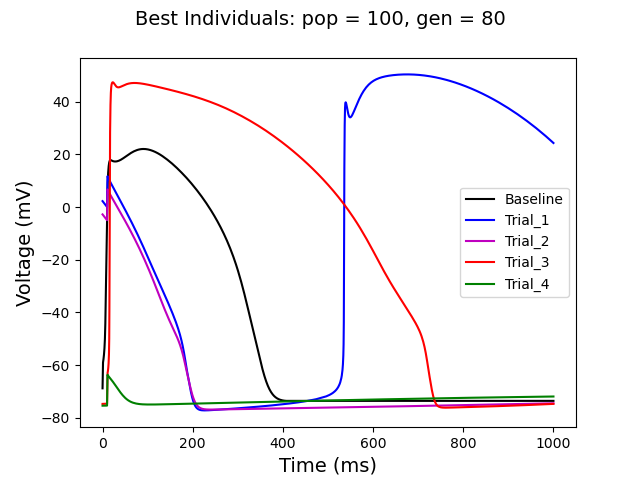
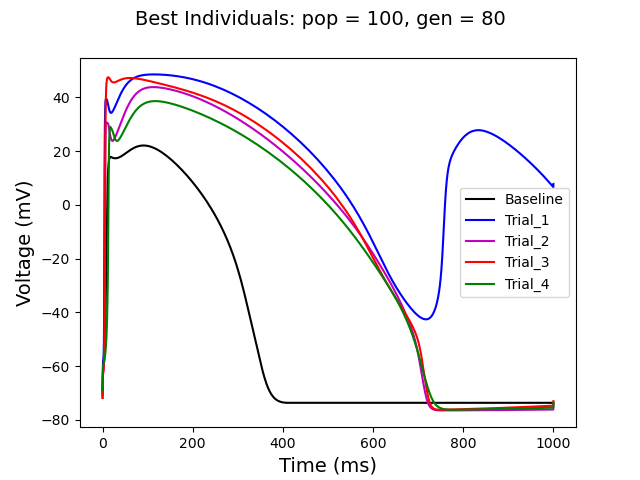
newind

diff --git a/plot_GA.py b/plot_GA.py
@@ -43,5 +43,30 @@ plt.suptitle('Best Individuals: pop = 100, gen = 80', fontsize=14)
 plt.savefig('Plot_Best_Inds.png')
 plt.show()
 
+#%%
+############ PLOT BEST ERROR ################
+gen = [i for i in list(range(1,80))]
 
-# %%
+err_1 = pd.read_excel('Errors_1.xlsx')
+best_err_1 = list(err_1['Avg Error'])
+plt.plot(gen, best_err_1,'*', label = 'Trial_1')
+
+err_2 = pd.read_excel('Errors_2.xlsx')
+best_err_2 = list(err_2['Avg Error'])
+plt.plot(gen, best_err_2,'*', label = 'Trial_2')
+
+err_3 = pd.read_excel('Errors_3.xlsx')
+best_err_3 = list(err_3['Avg Error'])
+plt.plot(gen, best_err_3,'*', label = 'Trial_3')
+
+err_4 = pd.read_excel('Errors_4.xlsx')
+best_err_4 = list(err_4['Avg Error'])
+plt.plot(gen, best_err_4,'*', label = 'Trial_4')
+
+plt.legend()
+plt.ylabel('Error', fontsize=14)
+plt.xlabel('Generation', fontsize=14)
+plt.suptitle('Best Errors', fontsize=14)
+plt.ylim(0,8000)
+plt.savefig('Plot_Best_Errors.png')
+plt.show()

diff --git a/functions.py b/functions.py
@@ -18,11 +18,24 @@ def plot_GA(ind):
     proto.schedule(4, 10, 1, 1000, 0) 
     sim = myokit.Simulation(mod,proto)
     sim.pre(1000 * 100) #pre-pace for 100 beats, to allow AP reach the steady state
-    dat = sim.run(1000)
+    dat = sim.run(50000)
+
+    i_stim = dat['stimulus.i_stim']
+    peaks = find_peaks(-np.array(i_stim), distance=100)[0]
+    start_ap = peaks[-3] 
+    end_ap = peaks[-2]
+
+    t = np.array(dat['engine.time'][start_ap:end_ap])
+    t = t - t[0]
+    max_idx = np.argmin(np.abs(t-1000))
+    t_leak = t[0:max_idx]
+    end_ap = start_ap + max_idx
+
+    v_leak = np.array(dat['membrane.V'][start_ap:end_ap])
     t = dat['engine.time']
     v = dat['membrane.V']
 
-    return t,v
+    return t_leak,v_leak
 
 #%%
 def calc_APD(t, v, apd_pct):
